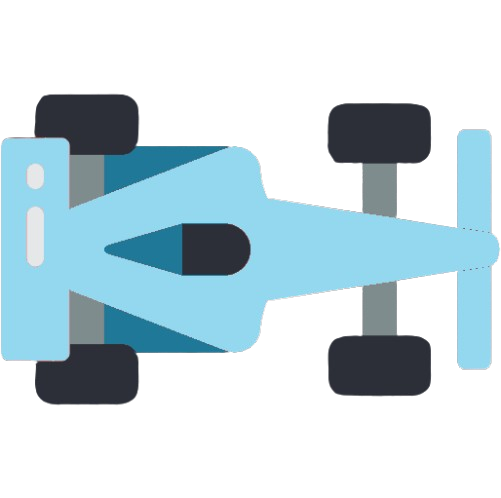
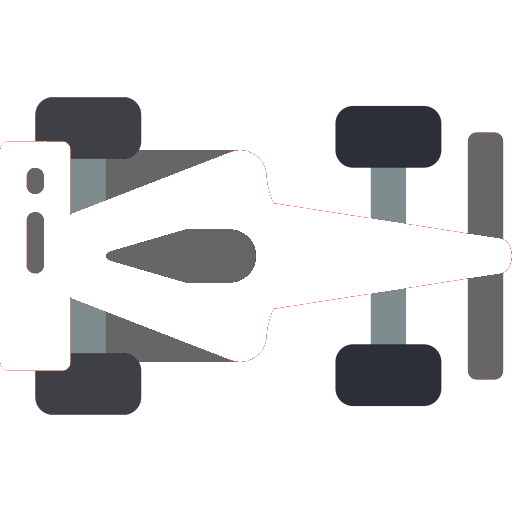
Update documentation

diff --git a/07_neat.html b/07_neat.html
@@ -62,7 +62,7 @@
     <link rel="index" title="Index" href="genindex.html" />
     <link rel="search" title="Search" href="search.html" />
     <link rel="next" title="Bahrein" href="08_competition.html" />
-    <link rel="prev" title="PPO" href="06_ppo.html" />
+    <link rel="prev" title="PPO (Proximal Policy Optimization)" href="06_ppo.html" />
   <meta name="viewport" content="width=device-width, initial-scale=1"/>
   <meta name="docsearch:language" content="en"/>
   </head>
@@ -200,13 +200,13 @@
 <p aria-level="2" class="caption" role="heading"><span class="caption-text">4. Combined methods</span></p>
 <ul class="nav bd-sidenav">
 <li class="toctree-l1"><a class="reference internal" href="05_a2c.html">A2C (Advantage Actor-Critic)</a></li>
-<li class="toctree-l1"><a class="reference internal" href="06_ppo.html">PPO</a></li>
+<li class="toctree-l1"><a class="reference internal" href="06_ppo.html">PPO (Proximal Policy Optimization)</a></li>
 </ul>
-<p aria-level="2" class="caption" role="heading"><span class="caption-text">7. NEAT (Optional)</span></p>
+<p aria-level="2" class="caption" role="heading"><span class="caption-text">6. NEAT (Optional)</span></p>
 <ul class="current nav bd-sidenav">
 <li class="toctree-l1 current active"><a class="current reference internal" href="#">NEAT (NeuroEvolution of Augmenting Topologies)</a></li>
 </ul>
-<p aria-level="2" class="caption" role="heading"><span class="caption-text">8. Competition</span></p>
+<p aria-level="2" class="caption" role="heading"><span class="caption-text">7. Competition</span></p>
 <ul class="nav bd-sidenav">
 <li class="toctree-l1"><a class="reference internal" href="08_competition.html">Bahrein</a></li>
 </ul>
@@ -423,7 +423,7 @@ document.write(`
                   
   <section class="tex2jax_ignore mathjax_ignore" id="neat-neuroevolution-of-augmenting-topologies">
 <h1>NEAT (NeuroEvolution of Augmenting Topologies)<a class="headerlink" href="#neat-neuroevolution-of-augmenting-topologies" title="Link to this heading">#</a></h1>
-<p><img alt="Alt text" src="_images/car4.png" /></p>
+<p><img alt="Alt text" src="_images/car5.png" /></p>
 <p>In this lesson, we’ll explore NEAT (NeuroEvolution of Augmenting Topologies), an evolutionary algorithm for generating artificial neural networks. Unlike traditional reinforcement learning methods that update a single network, NEAT evolves a population of networks over time, combining the principles of genetic algorithms with neural network optimization.</p>
 <section id="overview-of-neat">
 <h2>Overview of NEAT<a class="headerlink" href="#overview-of-neat" title="Link to this heading">#</a></h2>
@@ -557,7 +557,7 @@ No Backpropagation: As an evolutionary method, NEAT doesn’t require backpropag
       <i class="fa-solid fa-angle-left"></i>
       <div class="prev-next-info">
         <p class="prev-next-subtitle">previous</p>
-        <p class="prev-next-title">PPO</p>
+        <p class="prev-next-title">PPO (Proximal Policy Optimization)</p>
       </div>
     </a>
     <a class="right-next"

diff --git a/05_a2c.html b/05_a2c.html
@@ -63,7 +63,7 @@
     <link rel="icon" href="_static/favicon.ico"/>
     <link rel="index" title="Index" href="genindex.html" />
     <link rel="search" title="Search" href="search.html" />
-    <link rel="next" title="PPO" href="06_ppo.html" />
+    <link rel="next" title="PPO (Proximal Policy Optimization)" href="06_ppo.html" />
     <link rel="prev" title="SARSA (State-Action-Reward-State-Action)" href="04_sarsa.html" />
   <meta name="viewport" content="width=device-width, initial-scale=1"/>
   <meta name="docsearch:language" content="en"/>
@@ -202,13 +202,13 @@
 <p aria-level="2" class="caption" role="heading"><span class="caption-text">4. Combined methods</span></p>
 <ul class="current nav bd-sidenav">
 <li class="toctree-l1 current active"><a class="current reference internal" href="#">A2C (Advantage Actor-Critic)</a></li>
-<li class="toctree-l1"><a class="reference internal" href="06_ppo.html">PPO</a></li>
+<li class="toctree-l1"><a class="reference internal" href="06_ppo.html">PPO (Proximal Policy Optimization)</a></li>
 </ul>
-<p aria-level="2" class="caption" role="heading"><span class="caption-text">7. NEAT (Optional)</span></p>
+<p aria-level="2" class="caption" role="heading"><span class="caption-text">6. NEAT (Optional)</span></p>
 <ul class="nav bd-sidenav">
 <li class="toctree-l1"><a class="reference internal" href="07_neat.html">NEAT (NeuroEvolution of Augmenting Topologies)</a></li>
 </ul>
-<p aria-level="2" class="caption" role="heading"><span class="caption-text">8. Competition</span></p>
+<p aria-level="2" class="caption" role="heading"><span class="caption-text">7. Competition</span></p>
 <ul class="nav bd-sidenav">
 <li class="toctree-l1"><a class="reference internal" href="08_competition.html">Bahrein</a></li>
 </ul>
@@ -719,7 +719,7 @@ A(s,a)≈r+γV(s′)−V(s)
        title="next page">
       <div class="prev-next-info">
         <p class="prev-next-subtitle">next</p>
-        <p class="prev-next-title">PPO</p>
+        <p class="prev-next-title">PPO (Proximal Policy Optimization)</p>
       </div>
       <i class="fa-solid fa-angle-right"></i>
     </a>

diff --git a/03_dqn.html b/03_dqn.html
@@ -202,13 +202,13 @@
 <p aria-level="2" class="caption" role="heading"><span class="caption-text">4. Combined methods</span></p>
 <ul class="nav bd-sidenav">
 <li class="toctree-l1"><a class="reference internal" href="05_a2c.html">A2C (Advantage Actor-Critic)</a></li>
-<li class="toctree-l1"><a class="reference internal" href="06_ppo.html">PPO</a></li>
+<li class="toctree-l1"><a class="reference internal" href="06_ppo.html">PPO (Proximal Policy Optimization)</a></li>
 </ul>
-<p aria-level="2" class="caption" role="heading"><span class="caption-text">7. NEAT (Optional)</span></p>
+<p aria-level="2" class="caption" role="heading"><span class="caption-text">6. NEAT (Optional)</span></p>
 <ul class="nav bd-sidenav">
 <li class="toctree-l1"><a class="reference internal" href="07_neat.html">NEAT (NeuroEvolution of Augmenting Topologies)</a></li>
 </ul>
-<p aria-level="2" class="caption" role="heading"><span class="caption-text">8. Competition</span></p>
+<p aria-level="2" class="caption" role="heading"><span class="caption-text">7. Competition</span></p>
 <ul class="nav bd-sidenav">
 <li class="toctree-l1"><a class="reference internal" href="08_competition.html">Bahrein</a></li>
 </ul>
@@ -476,7 +476,7 @@ Q(s,a)←Q(s,a)+α TD error
 </ul>
 <p>In contrast to Monte Carlo methods, which wait until the end of an episode to update values, TD learning updates the Q-value after every step.</p>
 <div style="display: flex; align-items: center;">
-    <img src="images/flag.png" alt="Description of the image" style="width: 100px; height: auto;">
+    <img src="_images/flag.png" alt="Description of the image" style="width: 100px; height: auto;">
     <h2 style="margin-right: 20px;">The Bellman Equation</h1>
 </div><p>The Bellman equation is a recursive formula that expresses the relationship between the value of a state-action pair and the value of the subsequent states. For Q-Learning, the Bellman equation is used to update the Q-values based on the reward from the current step and the expected future rewards from the next state.</p>
 <p>The Bellman equation for Q-values is:</p>

diff --git a/06_ppo.html b/06_ppo.html
@@ -204,11 +204,11 @@
 <li class="toctree-l1"><a class="reference internal" href="05_a2c.html">A2C (Advantage Actor-Critic)</a></li>
 <li class="toctree-l1 current active"><a class="current reference internal" href="#">PPO (Proximal Policy Optimization)</a></li>
 </ul>
-<p aria-level="2" class="caption" role="heading"><span class="caption-text">7. NEAT (Optional)</span></p>
+<p aria-level="2" class="caption" role="heading"><span class="caption-text">6. NEAT (Optional)</span></p>
 <ul class="nav bd-sidenav">
 <li class="toctree-l1"><a class="reference internal" href="07_neat.html">NEAT (NeuroEvolution of Augmenting Topologies)</a></li>
 </ul>
-<p aria-level="2" class="caption" role="heading"><span class="caption-text">8. Competition</span></p>
+<p aria-level="2" class="caption" role="heading"><span class="caption-text">7. Competition</span></p>
 <ul class="nav bd-sidenav">
 <li class="toctree-l1"><a class="reference internal" href="08_competition.html">Bahrein</a></li>
 </ul>
@@ -423,7 +423,7 @@ document.write(`
                   
   <section class="tex2jax_ignore mathjax_ignore" id="ppo-proximal-policy-optimization">
 <h1>PPO (Proximal Policy Optimization)<a class="headerlink" href="#ppo-proximal-policy-optimization" title="Link to this heading">#</a></h1>
-<p><img alt="Alt text" src="_images/car5.png" /></p>
+<p><img alt="Alt text" src="_images/car4.png" /></p>
 <p>In this lesson, we will explore Proximal Policy Optimization (PPO), a powerful reinforcement learning algorithm that builds on the Actor-Critic framework (like A2C) but introduces a key mechanism to stabilize learning. PPO is one of the most popular policy optimization algorithms because it balances ease of implementation and performance across a wide range of tasks.</p>
 <p>PPO improves upon vanilla Policy Gradient methods and A2C by clipping updates to prevent large policy changes, leading to more stable learning. Let’s explore how PPO works and why it outperforms simpler approaches like A2C in many environments.</p>
 <section id="ppo-overview">

diff --git a/08_competition.html b/08_competition.html
@@ -199,13 +199,13 @@
 <p aria-level="2" class="caption" role="heading"><span class="caption-text">4. Combined methods</span></p>
 <ul class="nav bd-sidenav">
 <li class="toctree-l1"><a class="reference internal" href="05_a2c.html">A2C (Advantage Actor-Critic)</a></li>
-<li class="toctree-l1"><a class="reference internal" href="06_ppo.html">PPO</a></li>
+<li class="toctree-l1"><a class="reference internal" href="06_ppo.html">PPO (Proximal Policy Optimization)</a></li>
 </ul>
-<p aria-level="2" class="caption" role="heading"><span class="caption-text">7. NEAT (Optional)</span></p>
+<p aria-level="2" class="caption" role="heading"><span class="caption-text">6. NEAT (Optional)</span></p>
 <ul class="nav bd-sidenav">
 <li class="toctree-l1"><a class="reference internal" href="07_neat.html">NEAT (NeuroEvolution of Augmenting Topologies)</a></li>
 </ul>
-<p aria-level="2" class="caption" role="heading"><span class="caption-text">8. Competition</span></p>
+<p aria-level="2" class="caption" role="heading"><span class="caption-text">7. Competition</span></p>
 <ul class="current nav bd-sidenav">
 <li class="toctree-l1 current active"><a class="current reference internal" href="#">Bahrein</a></li>
 </ul>

diff --git a/00_introduction.html b/00_introduction.html
@@ -200,13 +200,13 @@
 <p aria-level="2" class="caption" role="heading"><span class="caption-text">4. Combined methods</span></p>
 <ul class="nav bd-sidenav">
 <li class="toctree-l1"><a class="reference internal" href="05_a2c.html">A2C (Advantage Actor-Critic)</a></li>
-<li class="toctree-l1"><a class="reference internal" href="06_ppo.html">PPO</a></li>
+<li class="toctree-l1"><a class="reference internal" href="06_ppo.html">PPO (Proximal Policy Optimization)</a></li>
 </ul>
-<p aria-level="2" class="caption" role="heading"><span class="caption-text">7. NEAT (Optional)</span></p>
+<p aria-level="2" class="caption" role="heading"><span class="caption-text">6. NEAT (Optional)</span></p>
 <ul class="nav bd-sidenav">
 <li class="toctree-l1"><a class="reference internal" href="07_neat.html">NEAT (NeuroEvolution of Augmenting Topologies)</a></li>
 </ul>
-<p aria-level="2" class="caption" role="heading"><span class="caption-text">8. Competition</span></p>
+<p aria-level="2" class="caption" role="heading"><span class="caption-text">7. Competition</span></p>
 <ul class="nav bd-sidenav">
 <li class="toctree-l1"><a class="reference internal" href="08_competition.html">Bahrein</a></li>
 </ul>

diff --git a/01_reinforcement_learning.html b/01_reinforcement_learning.html
@@ -202,13 +202,13 @@
 <p aria-level="2" class="caption" role="heading"><span class="caption-text">4. Combined methods</span></p>
 <ul class="nav bd-sidenav">
 <li class="toctree-l1"><a class="reference internal" href="05_a2c.html">A2C (Advantage Actor-Critic)</a></li>
-<li class="toctree-l1"><a class="reference internal" href="06_ppo.html">PPO</a></li>
+<li class="toctree-l1"><a class="reference internal" href="06_ppo.html">PPO (Proximal Policy Optimization)</a></li>
 </ul>
-<p aria-level="2" class="caption" role="heading"><span class="caption-text">7. NEAT (Optional)</span></p>
+<p aria-level="2" class="caption" role="heading"><span class="caption-text">6. NEAT (Optional)</span></p>
 <ul class="nav bd-sidenav">
 <li class="toctree-l1"><a class="reference internal" href="07_neat.html">NEAT (NeuroEvolution of Augmenting Topologies)</a></li>
 </ul>
-<p aria-level="2" class="caption" role="heading"><span class="caption-text">8. Competition</span></p>
+<p aria-level="2" class="caption" role="heading"><span class="caption-text">7. Competition</span></p>
 <ul class="nav bd-sidenav">
 <li class="toctree-l1"><a class="reference internal" href="08_competition.html">Bahrein</a></li>
 </ul>

diff --git a/02_policy_gradients.html b/02_policy_gradients.html
@@ -202,13 +202,13 @@
 <p aria-level="2" class="caption" role="heading"><span class="caption-text">4. Combined methods</span></p>
 <ul class="nav bd-sidenav">
 <li class="toctree-l1"><a class="reference internal" href="05_a2c.html">A2C (Advantage Actor-Critic)</a></li>
-<li class="toctree-l1"><a class="reference internal" href="06_ppo.html">PPO</a></li>
+<li class="toctree-l1"><a class="reference internal" href="06_ppo.html">PPO (Proximal Policy Optimization)</a></li>
 </ul>
-<p aria-level="2" class="caption" role="heading"><span class="caption-text">7. NEAT (Optional)</span></p>
+<p aria-level="2" class="caption" role="heading"><span class="caption-text">6. NEAT (Optional)</span></p>
 <ul class="nav bd-sidenav">
 <li class="toctree-l1"><a class="reference internal" href="07_neat.html">NEAT (NeuroEvolution of Augmenting Topologies)</a></li>
 </ul>
-<p aria-level="2" class="caption" role="heading"><span class="caption-text">8. Competition</span></p>
+<p aria-level="2" class="caption" role="heading"><span class="caption-text">7. Competition</span></p>
 <ul class="nav bd-sidenav">
 <li class="toctree-l1"><a class="reference internal" href="08_competition.html">Bahrein</a></li>
 </ul>

diff --git a/04_sarsa.html b/04_sarsa.html
@@ -202,13 +202,13 @@
 <p aria-level="2" class="caption" role="heading"><span class="caption-text">4. Combined methods</span></p>
 <ul class="nav bd-sidenav">
 <li class="toctree-l1"><a class="reference internal" href="05_a2c.html">A2C (Advantage Actor-Critic)</a></li>
-<li class="toctree-l1"><a class="reference internal" href="06_ppo.html">PPO</a></li>
+<li class="toctree-l1"><a class="reference internal" href="06_ppo.html">PPO (Proximal Policy Optimization)</a></li>
 </ul>
-<p aria-level="2" class="caption" role="heading"><span class="caption-text">7. NEAT (Optional)</span></p>
+<p aria-level="2" class="caption" role="heading"><span class="caption-text">6. NEAT (Optional)</span></p>
 <ul class="nav bd-sidenav">
 <li class="toctree-l1"><a class="reference internal" href="07_neat.html">NEAT (NeuroEvolution of Augmenting Topologies)</a></li>
 </ul>
-<p aria-level="2" class="caption" role="heading"><span class="caption-text">8. Competition</span></p>
+<p aria-level="2" class="caption" role="heading"><span class="caption-text">7. Competition</span></p>
 <ul class="nav bd-sidenav">
 <li class="toctree-l1"><a class="reference internal" href="08_competition.html">Bahrein</a></li>
 </ul>

diff --git a/genindex.html b/genindex.html
@@ -201,11 +201,11 @@
 <li class="toctree-l1"><a class="reference internal" href="05_a2c.html">A2C (Advantage Actor-Critic)</a></li>
 <li class="toctree-l1"><a class="reference internal" href="06_ppo.html">PPO (Proximal Policy Optimization)</a></li>
 </ul>
-<p aria-level="2" class="caption" role="heading"><span class="caption-text">7. NEAT (Optional)</span></p>
+<p aria-level="2" class="caption" role="heading"><span class="caption-text">6. NEAT (Optional)</span></p>
 <ul class="nav bd-sidenav">
 <li class="toctree-l1"><a class="reference internal" href="07_neat.html">NEAT (NeuroEvolution of Augmenting Topologies)</a></li>
 </ul>
-<p aria-level="2" class="caption" role="heading"><span class="caption-text">8. Competition</span></p>
+<p aria-level="2" class="caption" role="heading"><span class="caption-text">7. Competition</span></p>
 <ul class="nav bd-sidenav">
 <li class="toctree-l1"><a class="reference internal" href="08_competition.html">Bahrein</a></li>
 </ul>

diff --git a/intro.html b/intro.html
@@ -205,11 +205,11 @@
 <li class="toctree-l1"><a class="reference internal" href="05_a2c.html">A2C (Advantage Actor-Critic)</a></li>
 <li class="toctree-l1"><a class="reference internal" href="06_ppo.html">PPO (Proximal Policy Optimization)</a></li>
 </ul>
-<p aria-level="2" class="caption" role="heading"><span class="caption-text">7. NEAT (Optional)</span></p>
+<p aria-level="2" class="caption" role="heading"><span class="caption-text">6. NEAT (Optional)</span></p>
 <ul class="nav bd-sidenav">
 <li class="toctree-l1"><a class="reference internal" href="07_neat.html">NEAT (NeuroEvolution of Augmenting Topologies)</a></li>
 </ul>
-<p aria-level="2" class="caption" role="heading"><span class="caption-text">8. Competition</span></p>
+<p aria-level="2" class="caption" role="heading"><span class="caption-text">7. Competition</span></p>
 <ul class="nav bd-sidenav">
 <li class="toctree-l1"><a class="reference internal" href="08_competition.html">Bahrein</a></li>
 </ul>

diff --git a/search.html b/search.html
@@ -203,11 +203,11 @@
 <li class="toctree-l1"><a class="reference internal" href="05_a2c.html">A2C (Advantage Actor-Critic)</a></li>
 <li class="toctree-l1"><a class="reference internal" href="06_ppo.html">PPO (Proximal Policy Optimization)</a></li>
 </ul>
-<p aria-level="2" class="caption" role="heading"><span class="caption-text">7. NEAT (Optional)</span></p>
+<p aria-level="2" class="caption" role="heading"><span class="caption-text">6. NEAT (Optional)</span></p>
 <ul class="nav bd-sidenav">
 <li class="toctree-l1"><a class="reference internal" href="07_neat.html">NEAT (NeuroEvolution of Augmenting Topologies)</a></li>
 </ul>
-<p aria-level="2" class="caption" role="heading"><span class="caption-text">8. Competition</span></p>
+<p aria-level="2" class="caption" role="heading"><span class="caption-text">7. Competition</span></p>
 <ul class="nav bd-sidenav">
 <li class="toctree-l1"><a class="reference internal" href="08_competition.html">Bahrein</a></li>
 </ul>
